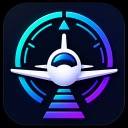
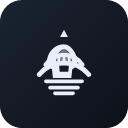
release: v1.23.0 — Iconography Tier 2 (brand unification)
Marketplace icon.png is now a real PNG derived from the pilot.svg silhouette; README documents Opción B.

diff --git a/README.md b/README.md
@@ -125,10 +125,12 @@ toast with **Copy for AI**:
 
 ### Iconography
 
-BDD Pilot uses **VS Code codicons** for actions and outcomes, plus two **brand assets**:
+BDD Pilot uses **VS Code codicons** for actions and outcomes, plus two **brand assets** that share the **same silhouette** (radar + pilot):
 
-- **`media/icon.png`** — Marketplace listing (color, discovery).
-- **`media/pilot.svg`** — Activity bar sidebar icon (monochrome, theme-aware).
+| Asset | Role |
+|-------|------|
+| **`media/icon.png`** | Marketplace / Extensions discovery — color tile derived from `pilot.svg` (`media/icon-marketplace.svg` source) |
+| **`media/pilot.svg`** | Activity bar sidebar — monochrome, theme-aware (`currentColor`) |
 
 | Area | Icons | Meaning |
 |------|-------|---------|
@@ -139,7 +141,7 @@ BDD Pilot uses **VS Code codicons** for actions and outcomes, plus two **brand a
 | Tree outcomes | `pass`, `error`, `circle-slash`, `beaker`, `list-tree` | Passed / failed / skipped / pending scenario / pending outline |
 | Containers | `folder`, `file-code`, `tag` + tint `testing.icon*` | Domain / feature / tag group roll-up |
 
-Step binding navigation uses [**BDD Guardian**](https://github.com/AngHelll/bdd-guardian) — Pilot focuses on execution icons only.
+**ForgeOne family:** Pilot = execution · [BDD Guardian](https://github.com/AngHelll/bdd-guardian) = navigation & step bindings — Pilot focuses on execution icons only.
 
 ## Security
 

diff --git a/ROADMAP.md b/ROADMAP.md
@@ -1,7 +1,7 @@
 # BDD Pilot — Roadmap
 
 > Living document: what shipped, what is in progress, and what comes next.  
-> **Current release: v1.22.0** · **Marketplace: v1.22.0** · **Next: backlog Tier 2/3** · **478 unit tests**
+> **Current release: v1.23.0** · **Marketplace: v1.22.0** · **Next: ship/publish v1.23.0** · **478 unit tests**
 
 ---
 
@@ -9,8 +9,8 @@
 
 | Status | Item |
 |--------|------|
-| ✅ Shipped (GitHub + Marketplace) | v0.1.0 → **v1.22.0** |
-| 🎯 Next | backlog Tier 2/3 |
+| ✅ Shipped (GitHub + Marketplace) | v0.1.0 → **v1.22.0** (local **v1.23.0**) |
+| 🎯 Next | ship / publish v1.23.0 (Iconography Tier 2) |
 | 🎯 Ecosystem | Jarvis cross-ext ✅ |
 | 🏁 Goal | **v1.x** — ecosystem APIs (Run ✅ · gate ✅ · Jarvis Capa B ✅) · dotnet flags ✅ · MCP post-v1.0 |
 
@@ -198,6 +198,14 @@ Use before clicking **Publish** on Marketplace:
 ### Unreleased *(main branch)*
 
 _Nothing yet._
+
+### v1.23.0 — Iconography Tier 2 (brand unification) ✅ local
+
+| Area | Change |
+|------|--------|
+| **Assets** | `icon.png` PNG 128×128 from `pilot.svg` silhouette; source `icon-marketplace.svg` |
+| **Docs** | README Iconography Opción B + ForgeOne one-liner |
+| **Tests** | 478 unit (unchanged) |
 
 ### v1.22.0 — Post-run narrative (arco) ✅ shipped
 

diff --git a/CHANGELOG.md b/CHANGELOG.md
@@ -8,6 +8,11 @@ Versioning: [Semver](https://semver.org/).
 
 _Nothing yet._
 
+## [1.23.0] — 2026-07-20
+
+### Changed
+- **Brand unification (Iconography Tier 2)** — Marketplace `media/icon.png` is now a real 128×128 PNG derived from the same silhouette as `media/pilot.svg` (source: `media/icon-marketplace.svg`); README Iconography documents Opción B (shared silhouette; color vs monochrome)
+
 ## [1.22.0] — 2026-07-20
 
 ### Added
